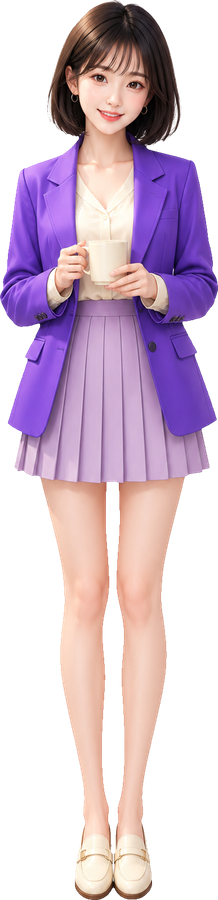
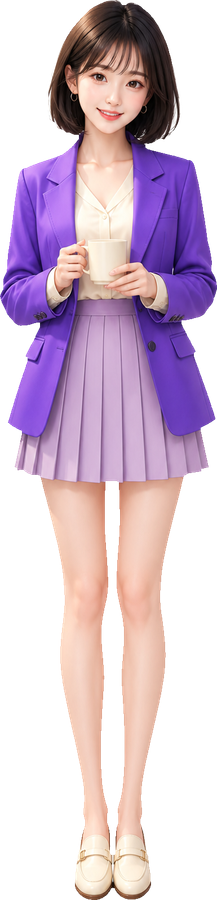
polish(v4): 스탠드 컷아웃 알파 블리드로 흰 테 제거(3px 침식), 텍스처 캐시 버전 추가

diff --git a/office3d.js b/office3d.js
@@ -1332,7 +1332,7 @@ function makeReikaStandee(spec, index) {
   const parts = {};
 
   const FIG_H = 1.90;                 // 일러스트 세로(월드 단위)
-  const FIG_ASPECT = 218 / 900;       // assets/standees/reika.png 비율
+  const FIG_ASPECT = 217 / 900;       // assets/standees/reika.png 비율
   const FIG_W = FIG_H * FIG_ASPECT;
   const BASE_R = 0.31;
   const BASE_H = 0.055;
@@ -1383,7 +1383,7 @@ function makeReikaStandee(spec, index) {
 
   const geo = new THREE.PlaneGeometry(FIG_W, FIG_H, 1, 1);
   geo.translate(0, FIG_H / 2, 0);      // 바닥을 원점에 둠
-  const tex = standeeTexture('assets/standees/reika.png');
+  const tex = standeeTexture('assets/standees/reika.png?v=3');
   const mat = new THREE.MeshBasicMaterial({
     map: tex,
     transparent: true,

diff --git a/index.html b/index.html
@@ -310,6 +310,6 @@ DELETE /notes/&lt;key&gt;.json        (메모 카드의 ✕ · 확인 후 삭제
 }
 </script>
 <script src="app.js?v=20261128vs"></script>
-<script type="module" src="office3d.js?v=20261128reika25d3"></script>
+<script type="module" src="office3d.js?v=20261128reika25d4"></script>
 </body>
 </html>

diff --git a/tools/standee_cutout.py b/tools/standee_cutout.py
@@ -53,26 +53,30 @@ while rem.any():
     rem &= ~comp
 
 fig = Image.fromarray(((~bg) * 255).astype(np.uint8), "L")
-fig = fig.filter(ImageFilter.MinFilter(5)).filter(ImageFilter.GaussianBlur(1.0))
+fig = fig.filter(ImageFilter.MinFilter(7)).filter(ImageFilter.GaussianBlur(0.9))
 s = np.asarray(fig).astype(np.float32) / 255.0
-alpha = np.clip((s - 0.30) / 0.55, 0.0, 1.0)
-alpha[s >= 0.85] = 1.0
-
-# 실루엣 테두리에 남은 흰 테(스튜디오 배경 번짐)를 밴드 안에서만 제거
-band = np.asarray(
-    Image.fromarray(((~bg) * 255).astype(np.uint8), "L")
-    .filter(ImageFilter.MaxFilter(5))
-    .filter(ImageFilter.GaussianBlur(1.2))
-).astype(np.float32) / 255.0
-white = np.clip((248.0 - mn) / 22.0, 0.0, 1.0)
-alpha = alpha * (1.0 - (1.0 - white) * band)
+alpha = np.clip((s - 0.35) / 0.45, 0.0, 1.0)
 alpha[bg] = 0.0
 
 # 경계 흰 오염 제거 (halo 완화)
 af = alpha[..., None]
 rgb = (a - 255.0 * (1.0 - af)) / np.maximum(af, 1e-3)
 rgb = np.clip(rgb, 0, 255)
-rgb = np.where(af > 0.03, rgb, a)
+
+# 알파 블리드: 투명 픽셀의 RGB를 가까운 실루엣 색으로 채워 GPU 보간 시 흰 테가 생기지 않게
+known = alpha > 0.35
+for _ in range(14):
+    grew = known.copy()
+    for dy, dx in ((1, 0), (-1, 0), (0, 1), (0, -1)):
+        sr = np.roll(rgb, (dy, dx), axis=(0, 1))
+        sm = np.roll(known, (dy, dx), axis=(0, 1))
+        take = (~known) & sm
+        rgb[take] = sr[take]
+        grew |= sm
+    known = grew
+    if known.all():
+        break
+
 rgba = np.dstack([rgb, alpha * 255.0]).astype(np.uint8)
 
 img = Image.fromarray(rgba, "RGBA")
